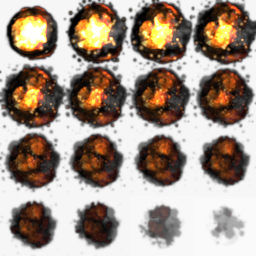
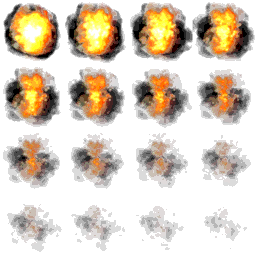
Update transparency

diff --git a/src/components/App/index.jsx b/src/components/App/index.jsx
@@ -15,7 +15,7 @@ export default class App extends Component {
 			sprite: 'img/explosion.png',
 			hTiles: 4,
 			vTiles: 4,
-			animationSpeed: 200,
+			animationSpeed: 75,
 			tileIndex: 0
 		};
 		this.state.fire = {
@@ -23,7 +23,7 @@ export default class App extends Component {
 			sprite: 'img/fire.jpg',
 			hTiles: 8,
 			vTiles: 8,
-			animationSpeed: 75,
+			animationSpeed: 40,
 			tileIndex: 0
 		};
 		this.state.runner = {
@@ -31,10 +31,11 @@ export default class App extends Component {
 			sprite: 'img/run.png',
 			hTiles: 10,
 			vTiles: 1,
-			animationSpeed: 75,
+			animationSpeed: 20,
 			tileIndex: 0
 		};
 		this._onAnimate = this._onAnimate.bind(this);
+		this._updateTile = this._updateTile.bind(this);
 	}
 
 	componentDidMount() {
@@ -50,14 +51,14 @@ export default class App extends Component {
 
 	_onAnimate() {
 		this.stats.update();
-		['explosion', 'fire', 'runner'].forEach((tile) => {
-			const newTileState = this._updateTile(this.state[tile], tile);
+		['explosion', 'fire', 'runner'].forEach((tileName) => {
+			const newTileState = this._updateTile(tileName);
 			this.setState(newTileState);
 		});
 	}
 
-	_updateTile(tile, tileName) {
-		const newTile = Object.assign({}, tile);
+	_updateTile(tileName) {
+		const newTile = Object.assign({}, this.state[tileName]);
 		if (!newTile.lastAnimate) {
 			newTile.lastAnimate = new Date();
 		}
@@ -108,7 +109,7 @@ export default class App extends Component {
 							hTiles={this.state.explosion.hTiles}
 							vTiles={this.state.explosion.vTiles}
 							animationSpeed={this.state.explosion.animationSpeed}
-							tileIndex={this.state.fire.tileIndex}
+							tileIndex={this.state.explosion.tileIndex}
 						/>
 						<Target
 							position={this.state.runner.position}
@@ -116,7 +117,7 @@ export default class App extends Component {
 							hTiles={this.state.runner.hTiles}
 							vTiles={this.state.runner.vTiles}
 							animationSpeed={this.state.runner.animationSpeed}
-							tileIndex={this.state.fire.tileIndex}
+							tileIndex={this.state.runner.tileIndex}
 						/>
 					</scene>
 				</React3>

diff --git a/src/components/Target/index.jsx b/src/components/Target/index.jsx
@@ -24,9 +24,11 @@ export default class Target extends Component {
 						wrapT={THREE.RepeatWrapping}
 						repeat={this.repeat}
 						offset={offset}
+						transparent
+						opacity={0.5}
 						anisotropy={16}
 					/>
-					<meshBasicMaterial resourceId="material" side={THREE.DoubleSide} >
+					<meshBasicMaterial resourceId="material" color="white" transparent >
 						<textureResource resourceId="texture" />
 					</meshBasicMaterial>
 					<planeGeometry resourceId="targetGeometry" width={50} height={50} />
